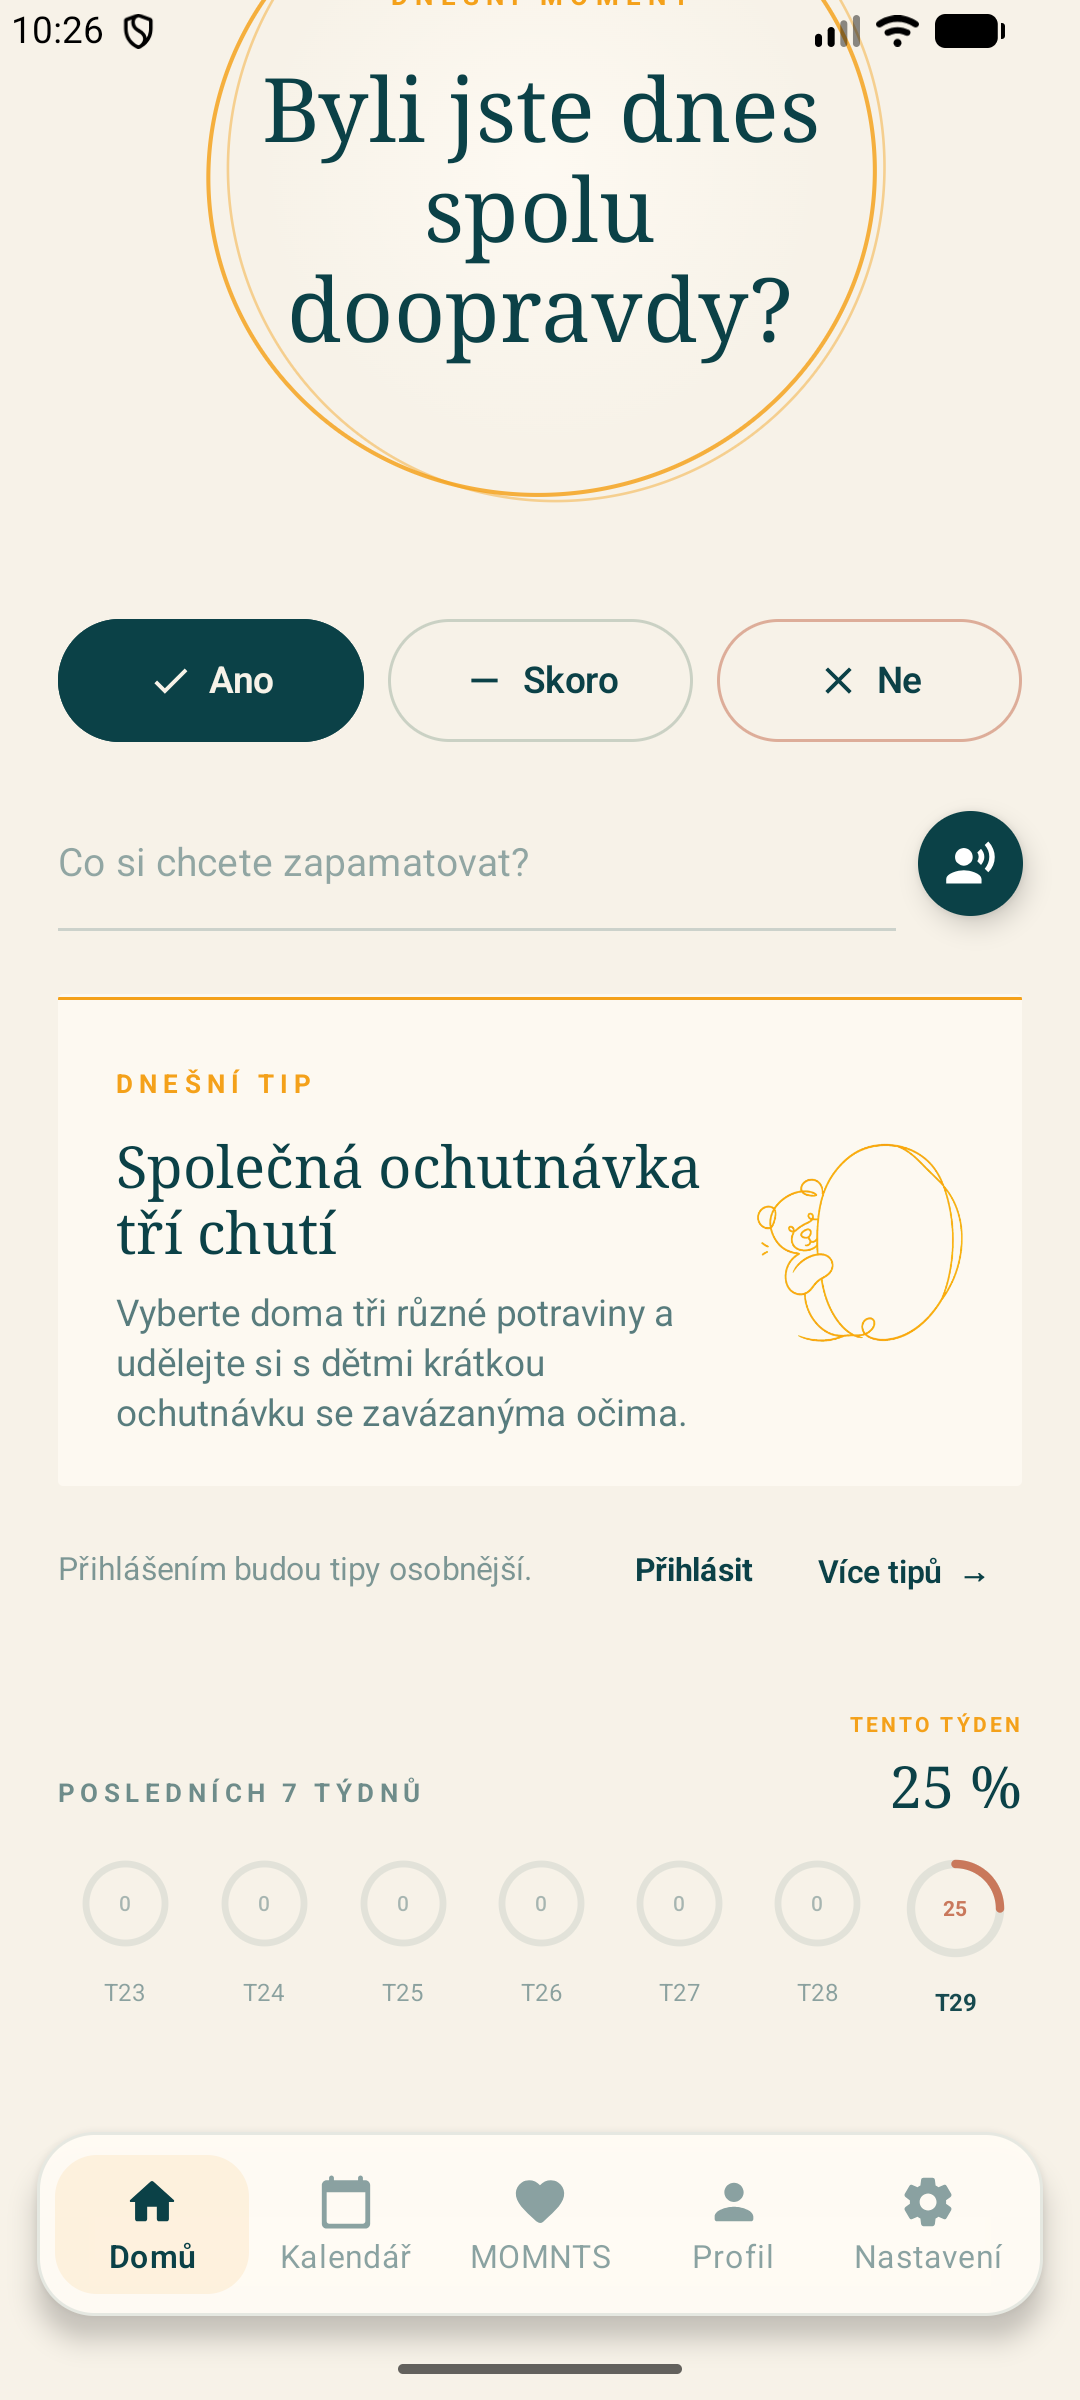
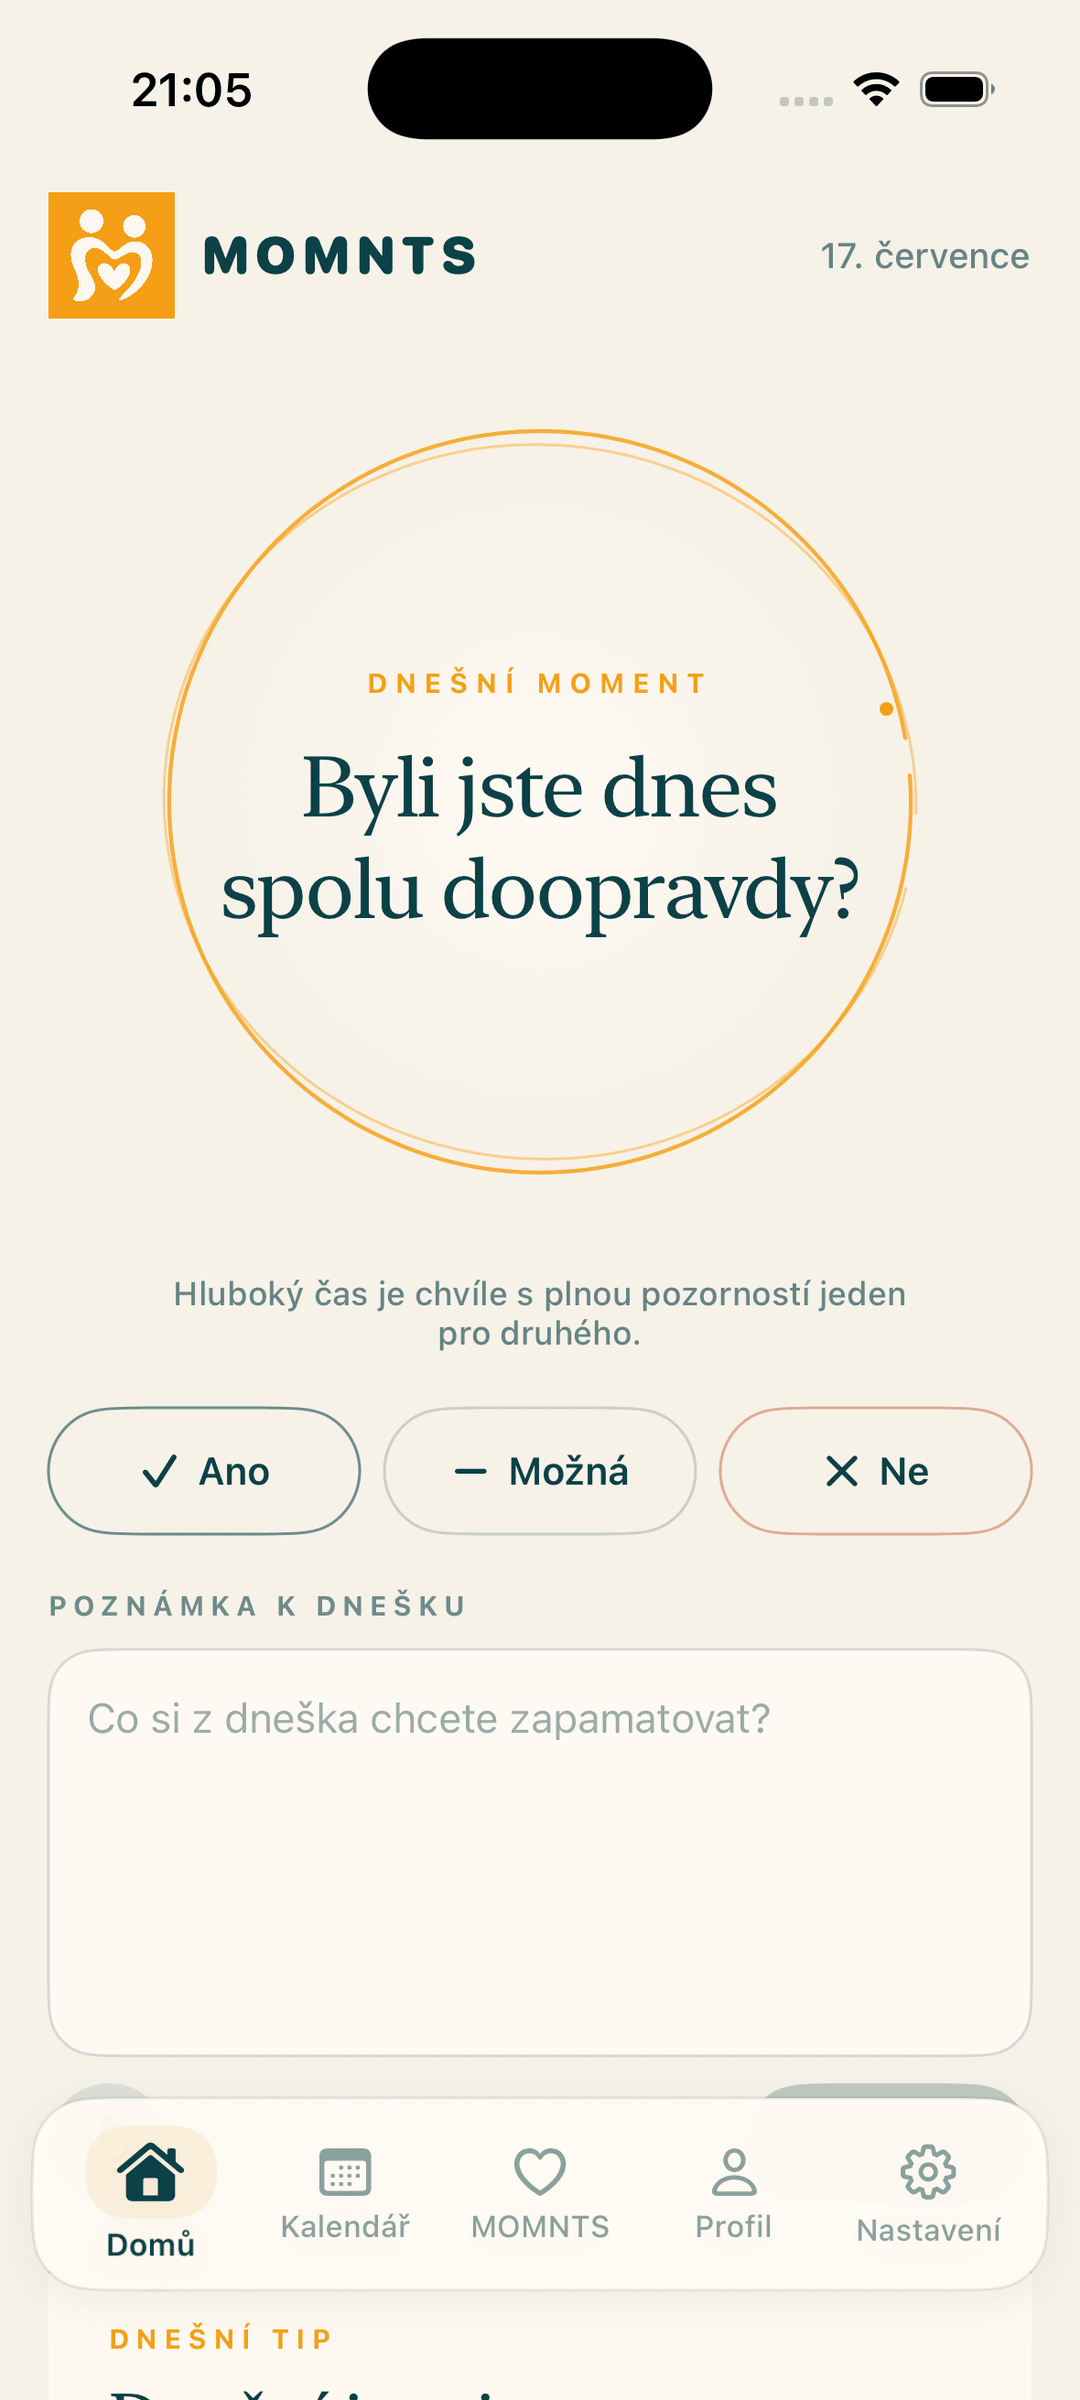
Simplify mobile landing and refresh app preview

diff --git a/app/globals.css b/app/globals.css
@@ -693,24 +693,15 @@ button, a { -webkit-tap-highlight-color: transparent; }
   .hero-note { font-size: 10px; }
   .hero-trust { flex-direction: column; gap: 8px; font-size: 10px; }
   .hero-trust span + span { padding-left: 0; border-left: 0; }
-  .hero-visual { min-height: 580px; margin-inline: -10px; }
-  .halo--one { width: 470px; height: 470px; }
-  .halo--two { width: 430px; height: 510px; }
-  .halo--three { width: 510px; height: 420px; }
+  .hero-visual { width: 100%; min-height: 540px; margin-inline: 0; }
+  .halo--one { width: 390px; height: 470px; }
+  .halo--two { width: 360px; height: 490px; }
+  .halo--three { width: 420px; height: 390px; }
   .phone-shell { width: 248px; height: 500px; border-radius: 42px; }
-  .phone-shell--main { margin: 24px 0 0 38px; }
-  .phone-shell--second { right: -34px; bottom: 5px; width: 160px; height: 348px; padding: 6px; border-radius: 28px; }
-  .phone-shell--second .phone-screen { border-radius: 22px; }
+  .phone-shell--main { margin: 18px 0 0; transform: rotate(-1.4deg); }
+  .phone-shell--second, .hero-question, .floating-card { display: none; }
   .phone-screen { border-radius: 34px; }
   .phone-speaker { top: 14px; width: 70px; height: 19px; }
-  .hero-question { top: 0; left: 0; width: 178px; padding-block: 19px; }
-  .hero-question strong { font-size: 21px; }
-  .floating-card--evening { left: 0; bottom: 54px; }
-  .floating-card--morning { top: 96px; right: -4px; }
-  .floating-card--evening, .floating-card--morning { gap: 8px; padding: 9px 11px 9px 9px; }
-  .floating-index { width: 28px; height: 28px; font-size: 11px; }
-  .floating-card strong { font-size: 9px; }
-  .floating-card small { font-size: 7px; }
   .hero-scroll { display: none; }
   .proof-grid { grid-template-columns: 1fr; }
   .proof-grid > div { min-height: 94px; border-right: 0; border-bottom: 1px solid var(--line); text-align: center; }
@@ -726,8 +717,11 @@ button, a { -webkit-tap-highlight-color: transparent; }
   .screen-frame { width: min(86%, 350px); margin-inline: auto; aspect-ratio: 9 / 14.7; }
   .screen-story > span, .screen-story h3 { display: block; width: min(86%, 350px); margin-inline: auto; }
   .screen-story h3 { margin-top: 9px; font-size: 24px; }
-  .step { grid-template-columns: 36px 1fr; gap: 14px; }
+  .step { grid-template-columns: 1fr; gap: 0; padding-block: 36px; }
+  .step-number { margin-bottom: 11px; padding-top: 0; font-family: var(--sans); font-size: 11px; font-weight: 800; letter-spacing: .18em; }
+  .step-copy { grid-column: 1; }
   .step-copy h3 { font-size: 28px; }
+  .mini-reflection, .mini-tip, .step-illustration { grid-column: 1; margin-top: 24px; }
   .mini-reflection { padding: 20px 13px; }
   .mini-reflection > span { font-size: 18px; }
   .mini-reflection b { font-size: 9px; }

diff --git a/app/page.tsx b/app/page.tsx
@@ -74,8 +74,8 @@ export default function Home() {
               <p className="eyebrow hero-eyebrow">Jedna otázka každý večer</p>
               <h1>Byli jste dnes <em>spolu<span className="mobile-break"><br /></span> doopravdy?</em></h1>
               <p className="hero-lead">
-                Večer zachytíte pár vět. Ráno dostanete osobní zpětnou vazbu,
-                která naváže na váš&nbsp;den.
+                Nejde jen být spolu. Hluboký čas je chvíle s plnou pozorností.
+                Večer ji zachytíte, ráno na ni naváže osobní zpětná vazba.
               </p>
               <StoreButtons />
               <p className="hero-note"><span /> Dnešní reflexe a jedna aktuální karta jsou zdarma.</p>
@@ -174,11 +174,11 @@ export default function Home() {
                 <span className="step-number">01</span>
                 <div className="step-copy">
                   <h3>Zastavíte se</h3>
-                  <p>Jednou otázkou zhodnotíte den a krátce si zapíšete, co chcete uchovat.</p>
+                  <p>Zachytíte, jestli jste spolu měli hluboký čas — chvíli s plnou pozorností.</p>
                 </div>
                 <div className="mini-reflection" aria-hidden="true">
                   <span>Byli jste dnes spolu doopravdy?</span>
-                  <div><b>✓ Ano</b><b>– Skoro</b><b>× Ne</b></div>
+                  <div><b>✓ Ano</b><b>– Možná</b><b>× Ne</b></div>
                 </div>
               </article>
 
